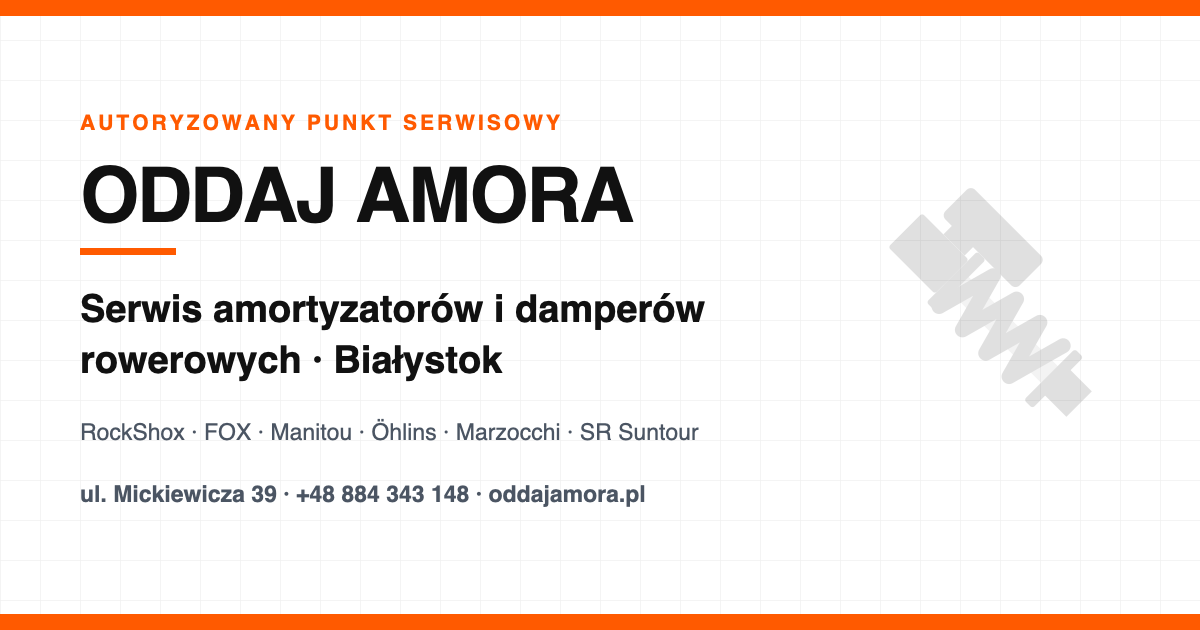
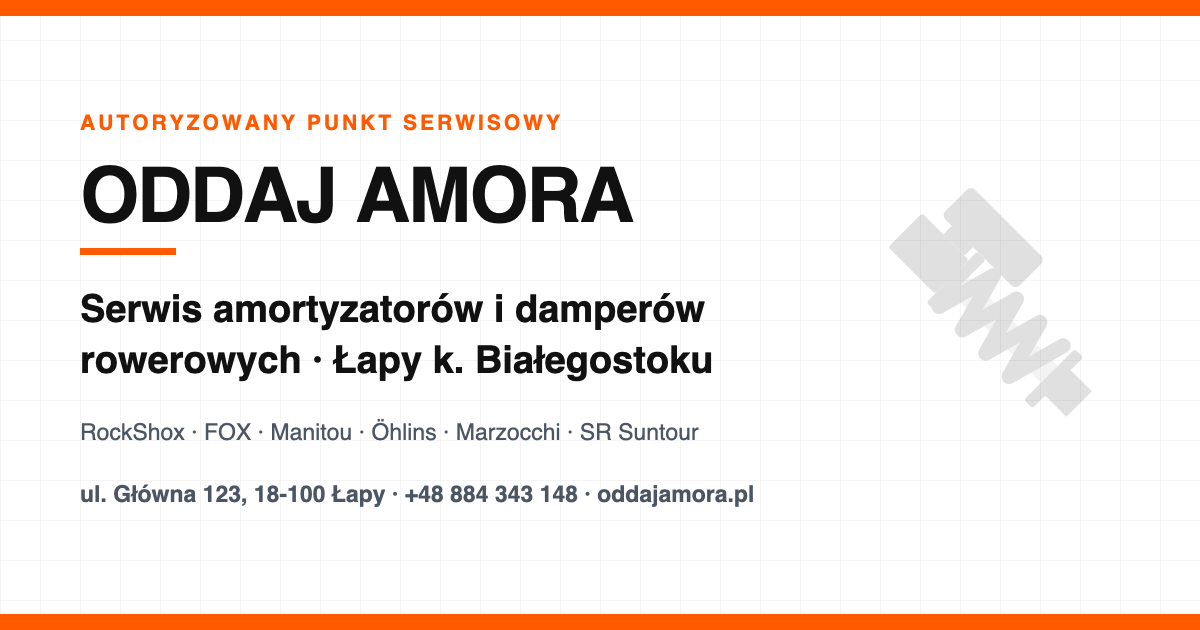
Change site owner to Skoczek Suspension Tomasz Pierzchalo
The site is taken over by Skoczek Suspension Tomasz Pierzchalo (sole
proprietorship registered in CEIDG - no KRS), NIP 5423158283,
REGON 523948292, ul. Glowna 123, 18-100 Lapy. Company data confirmed
against two independent registries; coordinates from OpenStreetMap.

Legal documents (src/constants.ts)
- Terms of service: new owner, CEIDG legal form, NIP/REGON instead of
  NIP/KRS, new service address, effective date 16.11.2026
- Privacy policy: new personal data controller with full identification
- New COMPANY constant keeping the registration data in one place

Contact data
- Service address: ul. Glowna 123, 18-100 Lapy (previously
  ul. Mickiewicza 39 in Bialystok - premises of the former owner)
- E-mail: tomasze4@gmail.com (previously galeriarowerowapl@gmail.com)
- Phone unchanged: +48 884 343 148; brand "Oddaj Amora" unchanged

SEO and structured data
- Titles, descriptions and page copy now target Lapy, with Bialystok and
  powiat bialostocki kept as areaServed
- JSON-LD Organization/LocalBusiness: legalName, vatID/taxID, NIP and
  REGON identifiers, address, geo (52.9918, 22.8655), areaServed
- geo.placename / geo.position / ICBM meta tags
- Google Maps embed moved to the new address (keyless embed URL)
- Open Graph image regenerated with the new address

Changed region(s): [[0.0925, 0.754, 0.6475, 0.8143], [0.2775, 0.5429, 0.6167, 0.6032]]

diff --git a/index.html b/index.html
@@ -6,34 +6,34 @@
     <meta http-equiv="X-UA-Compatible" content="IE=edge" />
 
     <!-- __SEO_START__ -->
-    <title>Serwis amortyzatorów rowerowych Białystok | Oddaj Amora</title>
-    <meta name="description" content="Profesjonalny serwis amortyzatorów i damperów rowerowych w Białymstoku. RockShox, FOX, Manitou, Öhlins, Marzocchi, SR Suntour. Darmowa wycena, 12 miesięcy gwarancji, wysyłka kurierem z całej Polski." />
+    <title>Serwis amortyzatorów rowerowych Łapy, Białystok | Oddaj Amora</title>
+    <meta name="description" content="Profesjonalny serwis amortyzatorów i damperów rowerowych - Łapy koło Białegostoku. RockShox, FOX, Manitou, Öhlins, Marzocchi, SR Suntour. Darmowa wycena, 12 miesięcy gwarancji, wysyłka kurierem z całej Polski." />
     <link rel="canonical" href="https://oddajamora.pl/" />
     <meta name="robots" content="index, follow, max-image-preview:large, max-snippet:-1, max-video-preview:-1" />
 
     <meta property="og:type" content="website" />
     <meta property="og:site_name" content="Oddaj Amora" />
     <meta property="og:locale" content="pl_PL" />
-    <meta property="og:title" content="Serwis amortyzatorów rowerowych Białystok | Oddaj Amora" />
-    <meta property="og:description" content="Profesjonalny serwis amortyzatorów i damperów rowerowych w Białymstoku. Darmowa wycena, 12 miesięcy gwarancji, wysyłka z całej Polski." />
+    <meta property="og:title" content="Serwis amortyzatorów rowerowych Łapy, Białystok | Oddaj Amora" />
+    <meta property="og:description" content="Profesjonalny serwis amortyzatorów i damperów rowerowych w Łapach koło Białegostoku. Darmowa wycena, 12 miesięcy gwarancji, wysyłka z całej Polski." />
     <meta property="og:url" content="https://oddajamora.pl/" />
     <meta property="og:image" content="https://oddajamora.pl/og-image.png" />
     <meta property="og:image:width" content="1200" />
     <meta property="og:image:height" content="630" />
-    <meta property="og:image:alt" content="Oddaj Amora - serwis amortyzatorów rowerowych w Białymstoku" />
+    <meta property="og:image:alt" content="Oddaj Amora - serwis amortyzatorów rowerowych w Łapach koło Białegostoku" />
 
     <meta name="twitter:card" content="summary_large_image" />
-    <meta name="twitter:title" content="Serwis amortyzatorów rowerowych Białystok | Oddaj Amora" />
-    <meta name="twitter:description" content="Profesjonalny serwis amortyzatorów i damperów rowerowych w Białymstoku. Darmowa wycena, 12 miesięcy gwarancji." />
+    <meta name="twitter:title" content="Serwis amortyzatorów rowerowych Łapy, Białystok | Oddaj Amora" />
+    <meta name="twitter:description" content="Profesjonalny serwis amortyzatorów i damperów rowerowych w Łapach koło Białegostoku. Darmowa wycena, 12 miesięcy gwarancji." />
     <meta name="twitter:image" content="https://oddajamora.pl/og-image.png" />
     <!-- __SEO_END__ -->
 
-    <meta name="author" content="Galeria Rowerowa Sp. z o.o." />
+    <meta name="author" content="Skoczek Suspension Tomasz Pierzchało" />
     <meta name="theme-color" content="#ff5a00" />
     <meta name="geo.region" content="PL-PD" />
-    <meta name="geo.placename" content="Białystok" />
-    <meta name="geo.position" content="53.1325;23.1678" />
-    <meta name="ICBM" content="53.1325, 23.1678" />
+    <meta name="geo.placename" content="Łapy" />
+    <meta name="geo.position" content="52.9918;22.8655" />
+    <meta name="ICBM" content="52.9918, 22.8655" />
 
     <link rel="icon" href="/favicon.svg" type="image/svg+xml" />
     <link rel="alternate icon" href="/favicon-32.png" sizes="32x32" type="image/png" />
@@ -56,18 +56,22 @@
             "@type": "Organization",
             "@id": "https://oddajamora.pl/#organization",
             "name": "Oddaj Amora",
-            "legalName": "Galeria Rowerowa Sp. z o.o.",
+            "legalName": "Skoczek Suspension Tomasz Pierzchało",
             "url": "https://oddajamora.pl/",
             "logo": "https://oddajamora.pl/og-image.png",
-            "email": "galeriarowerowapl@gmail.com",
+            "email": "tomasze4@gmail.com",
             "telephone": "+48884343148",
-            "vatID": "PL5423481883",
-            "taxID": "5423481883",
+            "vatID": "PL5423158283",
+            "taxID": "5423158283",
+            "identifier": [
+              { "@type": "PropertyValue", "name": "NIP", "value": "5423158283" },
+              { "@type": "PropertyValue", "name": "REGON", "value": "523948292" }
+            ],
             "address": {
               "@type": "PostalAddress",
-              "streetAddress": "ul. Rzemieślnicza 40/10",
-              "addressLocality": "Białystok",
-              "postalCode": "15-773",
+              "streetAddress": "ul. Główna 123",
+              "addressLocality": "Łapy",
+              "postalCode": "18-100",
               "addressRegion": "podlaskie",
               "addressCountry": "PL"
             }
@@ -80,25 +84,27 @@
             "url": "https://oddajamora.pl/",
             "image": "https://oddajamora.pl/og-image.png",
             "telephone": "+48884343148",
-            "email": "galeriarowerowapl@gmail.com",
+            "email": "tomasze4@gmail.com",
             "priceRange": "30-1300 PLN",
             "currenciesAccepted": "PLN",
             "parentOrganization": { "@id": "https://oddajamora.pl/#organization" },
             "address": {
               "@type": "PostalAddress",
-              "streetAddress": "ul. Mickiewicza 39",
-              "addressLocality": "Białystok",
-              "postalCode": "15-213",
+              "streetAddress": "ul. Główna 123",
+              "addressLocality": "Łapy",
+              "postalCode": "18-100",
               "addressRegion": "podlaskie",
               "addressCountry": "PL"
             },
             "geo": {
               "@type": "GeoCoordinates",
-              "latitude": 53.1325,
-              "longitude": 23.1678
+              "latitude": 52.9918,
+              "longitude": 22.8655
             },
             "areaServed": [
+              { "@type": "City", "name": "Łapy" },
               { "@type": "City", "name": "Białystok" },
+              { "@type": "AdministrativeArea", "name": "powiat białostocki" },
               { "@type": "AdministrativeArea", "name": "województwo podlaskie" },
               { "@type": "Country", "name": "Polska" }
             ],
@@ -157,16 +163,16 @@
     <div id="root"></div>
     <noscript>
       <div style="max-width: 48rem; margin: 3rem auto; padding: 0 1rem; font-family: sans-serif">
-        <h1>Oddaj Amora - serwis amortyzatorów rowerowych w Białymstoku</h1>
+        <h1>Oddaj Amora - serwis amortyzatorów rowerowych w Łapach koło Białegostoku</h1>
         <p>
           Profesjonalny serwis, naprawa i ustawianie amortyzatorów oraz damperów rowerowych marek
           RockShox, FOX, Manitou, Öhlins, Marzocchi, SR Suntour, DT Swiss, DVO i Cane Creek.
           Darmowa wycena, 12 miesięcy gwarancji na usługę, wysyłka kurierem z całej Polski.
         </p>
         <p>
-          Adres: ul. Mickiewicza 39, 15-213 Białystok (w lokalu Galerii Rowerowej).<br />
+          Adres: ul. Główna 123, 18-100 Łapy (powiat białostocki).<br />
           Telefon: <a href="tel:+48884343148">+48 884 343 148</a> (pn-pt 10:00-18:00).<br />
-          E-mail: <a href="mailto:galeriarowerowapl@gmail.com">galeriarowerowapl@gmail.com</a>
+          E-mail: <a href="mailto:tomasze4@gmail.com">tomasze4@gmail.com</a>
         </p>
         <p>Do korzystania z panelu klienta i formularza zgłoszeniowego wymagana jest obsługa JavaScript.</p>
       </div>

diff --git a/src/App.tsx b/src/App.tsx
@@ -123,8 +123,8 @@ const MapComponent: React.FC<{ consent: boolean; onAccept: () => void }> = ({ co
 
   return (
     <iframe
-      title="Lokalizacja serwisu Oddaj Amora - ul. Mickiewicza 39, Białystok"
-      src="https://www.google.com/maps/embed?pb=!1m18!1m12!1m3!1d2394.026466759714!2d23.1678!3d53.1325!2m3!1f0!2f0!3f0!3m2!1i1024!2i768!4f13.1!3m3!1m2!1s0x471ffc0f00000001%3A0x1234567890abcdef!2sMickiewicza%2039%2C%2015-213%20Bia%C5%82ystok!5e0!3m2!1spl!2spl!4v1620000000000!5m2!1spl!2spl"
+      title="Lokalizacja serwisu Oddaj Amora - ul. Główna 123, 18-100 Łapy"
+      src="https://www.google.com/maps?q=52.9918,22.8655&z=16&hl=pl&output=embed"
       width="100%"
       height="100%"
       style={{ border: 0 }}
@@ -144,7 +144,7 @@ const ContactDetails: React.FC = () => (
       <div>
         <h2 className="font-bold uppercase text-sm text-gray-400 mb-1">Adres</h2>
         <p className="font-bold text-lg text-black">{ADDRESS}</p>
-        <p className="text-sm text-gray-500">Białystok, woj. podlaskie (w lokalu Galerii Rowerowej)</p>
+        <p className="text-sm text-gray-500">Łapy, powiat białostocki, woj. podlaskie</p>
       </div>
     </div>
 
@@ -665,7 +665,7 @@ const App: React.FC = () => {
               <div className="max-w-7xl mx-auto px-4 relative z-10 flex flex-col md:flex-row items-center md:items-start justify-between gap-12">
                 <div className="flex-1 text-center md:text-left">
                   <p className="inline-flex items-center gap-2 bg-gray-100 text-gray-600 font-bold text-xs px-3 py-1 rounded mb-6 uppercase tracking-widest">
-                    <CheckCircle className="w-3 h-3 text-skoczek-primary" aria-hidden="true" /> Białystok · Autoryzowany punkt serwisowy
+                    <CheckCircle className="w-3 h-3 text-skoczek-primary" aria-hidden="true" /> Łapy k. Białegostoku · Autoryzowany punkt serwisowy
                   </p>
 
                   <h1 className="text-4xl md:text-6xl font-black text-black uppercase leading-tight tracking-tight mb-6 pl-0 md:pl-6 border-l-0 md:border-l-4 border-skoczek-primary">
@@ -675,8 +675,8 @@ const App: React.FC = () => {
                   <p className="text-gray-600 text-lg mb-8 max-w-xl font-medium leading-relaxed">
                     Kompleksowo zajmiemy się zawieszeniem w Twoim rowerze. Serwis olejowy, wymiana
                     uszczelek, naprawa i ustawienie amortyzatorów oraz damperów marek FOX, RockShox,
-                    Marzocchi, Öhlins, Manitou i SR Suntour. Przyjmujemy sprzęt osobiście w Białymstoku
-                    i kurierem z całej Polski.
+                    Marzocchi, Öhlins, Manitou i SR Suntour. Przyjmujemy sprzęt osobiście w Łapach
+                    koło Białegostoku i kurierem z całej Polski.
                   </p>
 
                   <div className="flex flex-col sm:flex-row gap-4 justify-center md:justify-start">
@@ -723,7 +723,7 @@ const App: React.FC = () => {
                   <MapPin className="w-8 h-8 text-skoczek-primary mb-1" aria-hidden="true" />
                   <div>
                     <h2 className="font-bold text-black uppercase text-sm">Lokalizacja</h2>
-                    <p className="text-xs text-gray-500 mt-1">Centrum Białegostoku</p>
+                    <p className="text-xs text-gray-500 mt-1">Łapy k. Białegostoku</p>
                   </div>
                 </div>
                 <div className="flex flex-col items-center md:items-start text-center md:text-left gap-3">
@@ -800,7 +800,7 @@ const App: React.FC = () => {
                 <ol className="grid md:grid-cols-4 gap-6">
                   {[
                     { icon: <Send className="w-6 h-6" aria-hidden="true" />, title: '1. Zgłoszenie', text: 'Wypełniasz formularz serwisowy online - opisujesz model i usterkę.' },
-                    { icon: <Truck className="w-6 h-6" aria-hidden="true" />, title: '2. Dostarczenie', text: 'Przywozisz sprzęt na ul. Mickiewicza 39 w Białymstoku lub wysyłasz kurierem.' },
+                    { icon: <Truck className="w-6 h-6" aria-hidden="true" />, title: '2. Dostarczenie', text: 'Przywozisz sprzęt na ul. Główną 123 w Łapach lub wysyłasz kurierem.' },
                     { icon: <Clock className="w-6 h-6" aria-hidden="true" />, title: '3. Diagnoza i wycena', text: 'W ciągu maksymalnie 3 dni roboczych otrzymujesz szczegółową wycenę do akceptacji.' },
                     { icon: <CheckCircle className="w-6 h-6" aria-hidden="true" />, title: '4. Naprawa i zwrot', text: 'Po akceptacji wykonujemy serwis i odsyłamy sprzęt - z 12-miesięczną gwarancją.' },
                   ].map((step) => (
@@ -858,7 +858,7 @@ const App: React.FC = () => {
                       </div>
                       <div>
                         <h3 className="font-bold text-lg">Adres Serwisu</h3>
-                        <p className="text-gray-400 mt-1 text-sm leading-relaxed">ul. Mickiewicza 39<br/>15-213 Białystok<br/>(w lokalu Galerii Rowerowej)</p>
+                        <p className="text-gray-400 mt-1 text-sm leading-relaxed">ul. Główna 123<br/>18-100 Łapy<br/>(powiat białostocki)</p>
                       </div>
                     </div>
 
@@ -965,8 +965,8 @@ const App: React.FC = () => {
                   <div>
                     <h1 className="text-3xl font-black text-black uppercase tracking-tight mb-2">Kontakt</h1>
                     <p className="text-gray-500">
-                      Serwis amortyzatorów rowerowych Oddaj Amora - Białystok, ul. Mickiewicza 39.
-                      Wybierz preferowaną formę kontaktu.
+                      Serwis amortyzatorów rowerowych Oddaj Amora - Łapy koło Białegostoku,
+                      ul. Główna 123. Wybierz preferowaną formę kontaktu.
                     </p>
                   </div>
 
@@ -1042,7 +1042,7 @@ const App: React.FC = () => {
           <div>
             <p className="text-xl font-black text-black uppercase tracking-tighter">ODDAJ <span className="text-skoczek-primary">AMORA</span></p>
             <p className="text-gray-500 text-sm mt-3 leading-relaxed">
-              Profesjonalny serwis amortyzatorów i damperów rowerowych w Białymstoku.
+              Profesjonalny serwis amortyzatorów i damperów rowerowych w Łapach koło Białegostoku.
               Przyjmujemy sprzęt osobiście oraz kurierem z całej Polski.
             </p>
           </div>
@@ -1050,7 +1050,7 @@ const App: React.FC = () => {
           <div>
             <h2 className="text-xs font-black uppercase tracking-widest text-gray-400 mb-4">Dane kontaktowe</h2>
             <address className="not-italic text-sm text-gray-600 space-y-2">
-              <p>ul. Mickiewicza 39, 15-213 Białystok</p>
+              <p>ul. Główna 123, 18-100 Łapy</p>
               <p>
                 <a href={`tel:${PHONE.replace(/\s+/g, '')}`} className="hover:text-skoczek-primary transition font-bold">{PHONE}</a>
               </p>
@@ -1075,7 +1075,7 @@ const App: React.FC = () => {
 
         <div className="max-w-7xl mx-auto px-4 mt-10 pt-8 border-t border-gray-100 text-center text-gray-400 text-xs space-y-1">
           <p>&copy; {new Date().getFullYear()} Oddaj Amora - {SITE_URL.replace(/^https?:\/\//, '')}</p>
-          <p>Galeria Rowerowa Sp. z o.o., ul. Rzemieślnicza 40/10, 15-773 Białystok, NIP 5423481883, KRS 0001091783</p>
+          <p>Skoczek Suspension Tomasz Pierzchało, ul. Główna 123, 18-100 Łapy, NIP 5423158283, REGON 523948292</p>
         </div>
       </footer>
 

diff --git a/src/constants.ts b/src/constants.ts
@@ -1,9 +1,24 @@
 import { PricingCategory } from './types';
 
 export const APP_NAME = "Oddaj Amora";
-export const ADDRESS = "ul. Mickiewicza 39, 15-213 Białystok";
+
+/** Operator of the service and of this website (CEIDG sole proprietorship). */
+export const COMPANY = {
+  name: "Skoczek Suspension Tomasz Pierzchało",
+  shortName: "Skoczek Suspension",
+  nip: "5423158283",
+  regon: "523948292",
+  street: "ul. Główna 123",
+  postalCode: "18-100",
+  city: "Łapy",
+  region: "podlaskie",
+  latitude: 52.9918,
+  longitude: 22.8655,
+} as const;
+
+export const ADDRESS = "ul. Główna 123, 18-100 Łapy";
 export const PHONE = "+48 884 343 148";
-export const EMAIL = "galeriarowerowapl@gmail.com";
+export const EMAIL = "tomasze4@gmail.com";
 
 export const REGULATION_POINTS = [
   "Akceptacja niniejszego regulaminu jest warunkiem koniecznym przyjęcia sprzętu do serwisu.",
@@ -183,15 +198,16 @@ export const PRICING_DATA: PricingCategory[] = [
 ];
 
 export const FULL_REGULATIONS = `REGULAMIN SERWISU AMORTYZATORÓW ROWEROWYCH oddajamora.pl
-Obowiązuje od dnia [24.11.2025]
+Obowiązuje od dnia 16.11.2026
 
 I. Postanowienia Ogólne
 1.1. Właściciel Serwisu:
-• Pełna nazwa: GALERIA ROWEROWA SPÓŁKA Z OGRANICZONĄ ODPOWIEDZIALNOŚCIĄ
-• Adres rejestrowy (siedziby): UL. RZEMIEŚLNICZA 40 / 10, 15-773 BIAŁYSTOK
-• NIP: 5423481883
-• Numer KRS: 0001091783
-• Adres e-mail: galeriarowerowapl@gmail.com
+• Pełna nazwa: SKOCZEK SUSPENSION TOMASZ PIERZCHAŁO
+• Forma prawna: jednoosobowa działalność gospodarcza wpisana do Centralnej Ewidencji i Informacji o Działalności Gospodarczej (CEIDG)
+• Adres prowadzenia działalności i punktu serwisowego: UL. GŁÓWNA 123, 18-100 ŁAPY
+• NIP: 5423158283
+• REGON: 523948292
+• Adres e-mail: tomasze4@gmail.com
 • Numer telefonu: 884 343 148
 
 1.2. Zakres Regulaminu: Regulamin określa zasady przyjmowania, diagnozowania, wyceny, realizacji i odbioru usług serwisowych (zwanych dalej "Usługą" lub "Serwisem") amortyzatorów rowerowych ("Amortyzator") świadczonych przez Serwis oddajamora.pl.
@@ -199,7 +215,7 @@ I. Postanowienia Ogólne
 1.3. Klient: Osoba fizyczna, osoba prawna lub jednostka organizacyjna bez osobowości prawnej, zlecająca wykonanie Usługi Serwisowej.
 
 II. Przyjmowanie Zlecenia Serwisowego
-2.1. Złożenie Zlecenia: Klient składa zlecenie serwisowe poprzez formularz na stronie oddajamora.pl, drogą e-mailową lub osobiście w punkcie Serwisu.
+2.1. Złożenie Zlecenia: Klient składa zlecenie serwisowe poprzez formularz na stronie oddajamora.pl, drogą e-mailową lub osobiście w punkcie Serwisu przy ul. Głównej 123 w Łapach.
 
 2.2. Wysyłka Sprzętu: Klient zobowiązuje się do wysłania Amortyzatora do Serwisu na własny koszt i ryzyko, odpowiednio zabezpieczonego na czas transportu, wraz z potwierdzeniem złożenia zlecenia (jeśli jest wymagane).
 
@@ -254,7 +270,7 @@ VI. Postanowienia Końcowe
 • Prawo odstąpienia od umowy nie przysługuje Klientowi, jeżeli Serwis wykonał w pełni Usługę za wyraźną zgodą Klienta, który został poinformowany o utracie tego prawa z chwilą spełnienia świadczenia (zgodnie z art. 38 pkt 1 Ustawy o Prawach Konsumenta).
 
 6.2. Ochrona Danych Osobowych:
-• Administratorem danych osobowych jest GALERIA ROWEROWA SPÓŁKA Z OGRANICZONĄ ODPOWIEDZIALNOŚCIĄ.
+• Administratorem danych osobowych jest SKOCZEK SUSPENSION TOMASZ PIERZCHAŁO.
 • Szczegółowe zasady przetwarzania danych określa odrębny dokument Polityka Prywatności Serwisu oddajamora.pl, dostępny na stronie internetowej.
 
 6.3. Postanowienia Końcowe:
@@ -268,10 +284,10 @@ Dokument ten wypełnia obowiązek informacyjny wynikający z art. 13 Rozporządz
 
 I. Administrator Danych Osobowych
 Administratorem Twoich danych osobowych jest:
-Galeria Rowerowa Sp. z o.o. ul. Rzemieślnicza 40/10 15-773 Białystok NIP: 5423481883 REGON: 527980329
+Skoczek Suspension Tomasz Pierzchało, ul. Główna 123, 18-100 Łapy, NIP: 5423158283, REGON: 523948292 (jednoosobowa działalność gospodarcza wpisana do CEIDG).
 
 Kontakt z Administratorem jest możliwy za pośrednictwem:
-Poczty elektronicznej: galeriarowerowapl@gmail.com
+Poczty elektronicznej: tomasze4@gmail.com
 Telefonu: 884 343 148
 
 II. Cele i podstawy prawne przetwarzania danych

diff --git a/README.md b/README.md
@@ -1,6 +1,6 @@
 # Oddaj Amora — Suspension Service
 
-A web application for **Oddaj Amora** (Galeria Rowerowa, Białystok), an authorized bicycle suspension and damper service center. It allows customers to submit service requests online, track repair status, and lets service staff manage work orders.
+A web application for **Oddaj Amora** (Skoczek Suspension Tomasz Pierzchało, Łapy near Białystok), an authorized bicycle suspension and damper service center. It allows customers to submit service requests online, track repair status, and lets service staff manage work orders.
 
 **Author:** Piotr Sienkiewicz
 
@@ -413,4 +413,4 @@ The `is_admin()` function checks the role exclusively in the JWT `app_metadata`.
 
 ## License
 
-Private project — Galeria Rowerowa Sp. z o.o. / Oddaj Amora.
+Private project — Skoczek Suspension Tomasz Pierzchało (NIP 5423158283) / Oddaj Amora.
